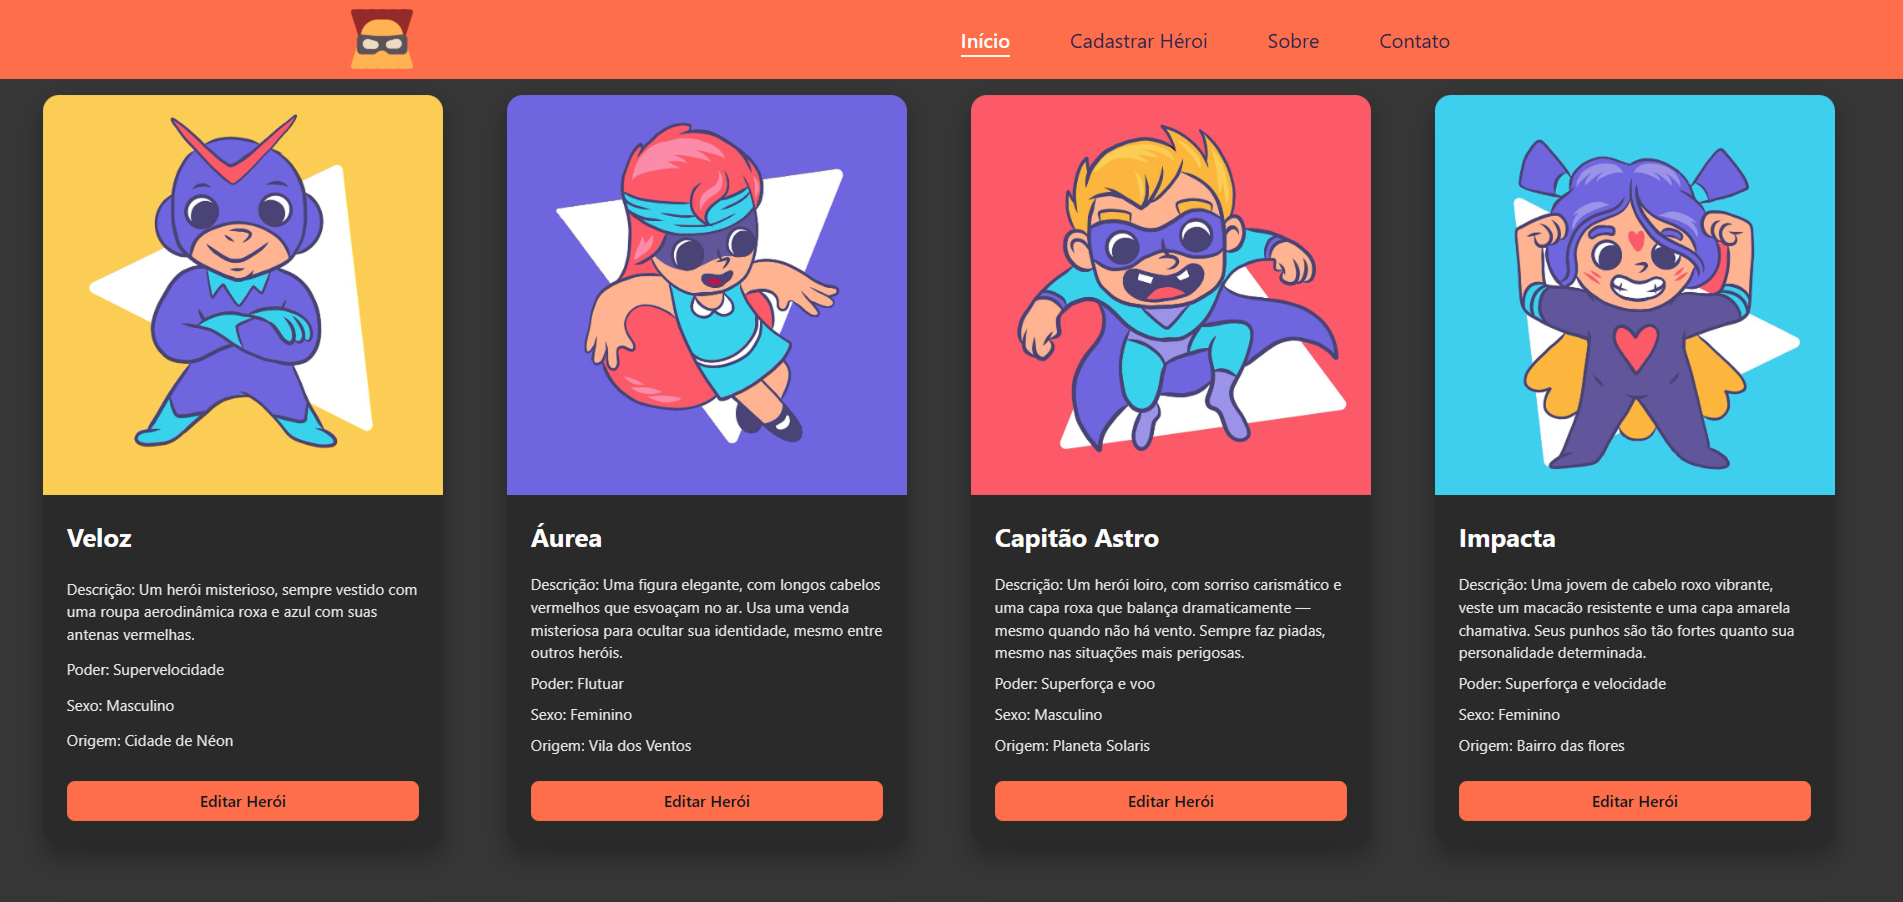
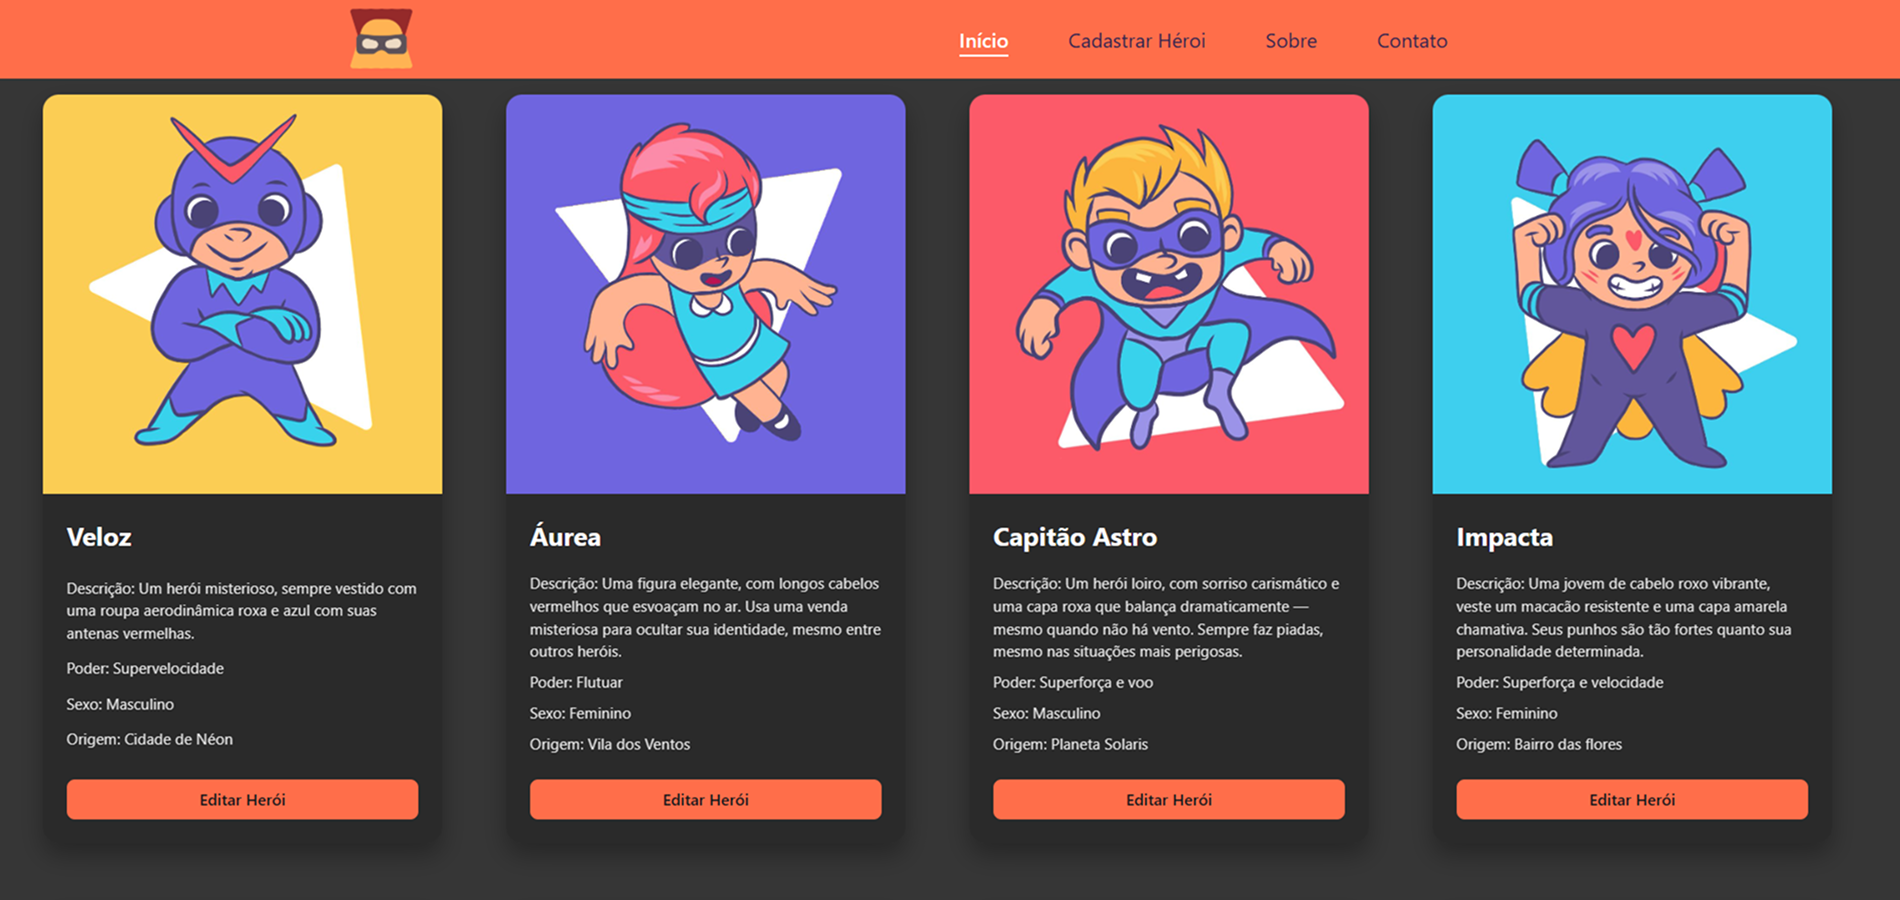
Correção no swiper

diff --git a/src/app/components/slide-swiper/slide-swiper.component.scss b/src/app/components/slide-swiper/slide-swiper.component.scss
@@ -1,3 +1,5 @@
+@import "swiper/swiper-bundle.css";
+
 // INICIO Swiper
 .swiper-container {
   padding-top: 10vh;
